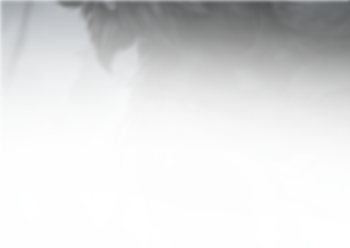
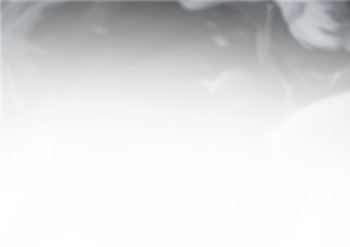
added bg variations

diff --git a/public_html/bootstrap/js/games_lobby.js b/public_html/bootstrap/js/games_lobby.js
@@ -1,21 +1,26 @@
 var username = $('.squad-self-name').text();
 var queueTimes = []
 
-function GamesLobby_selectRole() {
-    if ($(this).hasClass('other-taken')){
-    }else{
-    queueTimes.push($(this).siblings('.role-name').children('.queue-est').text());
-    if (queueTimes.length > 2) {
-        queueTimes.shift()
-    };
-    $('.self-taken').children('.role-name').children('.queue-est').text(queueTimes[0]);
+setTimeout(function () {
+    $('#support').addClass('role-taken other-taken');
+    $('#support').siblings('.role-name').find('.queue-est').text('AX.Aeon.피자')
+}, 8200);
 
-    $('.self-taken').children('.role').removeClass('role-taken');
-    $('.self-taken').removeClass('self-taken');
-    $(this).addClass('role-taken');
-    $(this).parent().addClass('self-taken');
-    $(this).find('.role-taken-img').attr('src');
-    $(this).siblings('.role-name').children('.queue-est').text(username);
-}};
+function GamesLobby_selectRole() {
+    if ($(this).hasClass('other-taken')) {} else {
+        queueTimes.push($(this).siblings('.role-name').children('.queue-est').text());
+        if (queueTimes.length > 2) {
+            queueTimes.shift()
+        };
+        $('.self-taken').children('.role-name').children('.queue-est').text(queueTimes[0]);
+
+        $('.self-taken').children('.role').removeClass('role-taken');
+        $('.self-taken').removeClass('self-taken');
+        $(this).addClass('role-taken');
+        $(this).parent().addClass('self-taken');
+        $(this).find('.role-taken-img').attr('src');
+        $(this).siblings('.role-name').children('.queue-est').text(username);
+    }
+};
 
 $('.role').click(GamesLobby_selectRole);

diff --git a/public_html/bootstrap/css/games_league.css b/public_html/bootstrap/css/games_league.css
@@ -1608,8 +1608,8 @@ a:focus {
     cursor: pointer;
     display: inline-block;
     position: relative;
-    margin-left: -25.5px;
-    top: -7.5px;
+    margin-left: -26px;
+    top: -6.5px;
 }
 
 .squad-ava-self {
@@ -2325,7 +2325,7 @@ a:focus {
 }
 
 .lobby {
-    background: rgba(9, 12, 17, 0.55);
+    background: rgba(9, 12, 17, 0.65);
     height: 100vh;
 }
 
@@ -3465,7 +3465,7 @@ input[type=number]::-webkit-outer-spin-button {
     position: absolute;
     z-index: -1;
     opacity: 0.9;
-    min-width:100vw;
+    max-width:100vw;
     min-height: 100vh;
     -webkit-transition-timing-function: cubic-bezier(0, 1.01, .55, .99);
     transition-timing-function: cubic-bezier(0, 1.01, .55, .99);
@@ -4432,11 +4432,12 @@ input[type=number]::-webkit-outer-spin-button {
 
 .lobby-top-teams {
     height: 80px;
+    width:90%;
     margin: auto;
-    background: rgba(9, 13, 19, 0.4);
+
     text-align: center;
-    border-bottom: 1px solid rgba(95, 127, 149, 0.0);
-    box-shadow: 0px 3px 30px rgba(0, 0, 0, 0.4), inset 0px 3px 120px rgba(0, 0, 0, 0.4);
+    border-bottom: 1px solid rgba(95, 127, 149, 0.35);
+
 }
 
 .team-name {
@@ -4784,8 +4785,8 @@ input[type=number]::-webkit-outer-spin-button {
     display: inline-block;
     position: absolute;
     top: calc(100% - 280px);
-    margin-top: 75px;
-    margin-left: 93px;
+    margin-top: 73px;
+    margin-left: 104px;
     color: #8791a0;
     cursor: pointer;
     -webkit-transition-timing-function: ease;

diff --git a/public_html/games_details.html b/public_html/games_details.html
@@ -127,7 +127,7 @@
     <div class="content">
         <div class='vid-pattern'></div>
 
-        <img src='bootstrap/img/game_details_bg_league2.png' class='content-bg'>
+        <img src='bootstrap/img/game_details_bg_league7.jpg' class='content-bg'>
 
         <!-- Menu Bar -->
         <div class='menu-bar-top'>
